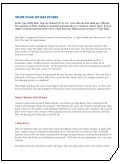
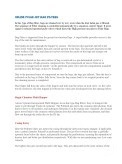
added video and brochure support

Changed region(s): [[0.0, 0.0, 0.9836, 1.0], [0.9344, 0.9146, 0.959, 0.9451]]

diff --git a/services.html b/services.html
@@ -18,8 +18,8 @@
     <nav class="fixed-top navbar navbar-expand-lg">
         <a class="navbar-brand" href="#"><img src="./resources/logo1.png" class="d-inline-block align-top brand-logo" alt="Brand Logo"></a>
         <button class="navbar-toggler" type="button" data-toggle="collapse" data-target="#navbarSupportedContent" aria-controls="navbarSupportedContent" aria-expanded="false" aria-label="Toggle navigation">
-      <span class="navbar-toggler-icon"></span>
-    </button>
+            <span class="navbar-toggler-icon"></span>
+        </button>
         <div class="collapse navbar-collapse" id="navbarSupportedContent">
             <ul class="pl-5 mr-auto navbar-nav">
                 <li class="nav-item active text-white">
@@ -55,28 +55,27 @@
 
 
     <div class="section">
-        <h2>We manufacture and maintain:</h2>
-        <div class="container-fluid mt-5 p-0">
+        <!-- <h2>We manufacture and maintain:</h2> -->
+        <div class="container-fluid mt-3 p-0">
             <div class="row">
-                <div class="col-md-3 d-sm-none d-md-block">
-                    <div id="product-list" class="list-group">
+                <div class="col-md-3">
+                    <div id="product-list" class="list-group d-none d-sm-block mb-5">
                         <a class="list-group-item list-group-item-action active">
-              Pulse Jet Bag Filter
-            </a>
+                            Pulse Jet Bag Filter
+                        </a>
                         <a class="list-group-item list-group-item-action">Centrifugal Blower / ID Fan
-            </a>
+                        </a>
                         <a class="list-group-item list-group-item-action">Dust Collector Cyclone</a>
                         <a class="list-group-item list-group-item-action">Pneumatic Conveying System</a>
                     </div>
                 </div>
-                <div class="col-sm-12 col-md-9">
+                <div class="col-xs-12 col-md-9">
                     <div class="rounded border p-4 product-description">
                         <div class="row">
                             <div class="col-sm-12">
                                 <h3 class="text-center">
                                     <span>Pulse Jet Bag Filter</span>
                                 </h3>
-
                                 <p class="clearfix mt-3">
                                     <div id="carouselExampleControls" class="carousel slide ml-2 mb-2 w-50 float-right" data-ride="carousel">
                                         <div class="carousel-inner">
@@ -99,7 +98,7 @@
                                             <span class="sr-only">Next</span>
                                         </a>
                                     </div>
-                                    <a class="brochure-button mr-4" href=""><img src="resources/brochure.jpg" alt="Download Brochure"></a>
+                                    <a class="brochure-button mr-4" href="http://bagfilters.in/files/Download/online-bag-filter.pdf"><img src="resources/brochure.jpg" alt="Download Brochure"></a>
                                     <a class="video-button" href=""><img src="resources/brochurevideo.jpg" alt="Watch video on Pulse Jet Bag Filter"></a>
                                     <br><br>Pulse Jet Bag filter is a dry dust filter device. It is suitable for trapping fine, dry, non-fibrous dust.
                                     <br> The filter bag is made of woven filter cloth or non-woven felt, and the dust-containing gas is filtered by the filtering effect of the fiber fabric.
@@ -258,7 +257,8 @@
                         <div>
                             <p>
                                 <img class="float-left" src="./resources/factory.jpg" alt="Proprietor" title="Proprietor" />
-                                <strong><i>Manufacturing Unit:</i></strong><br /> Khasra No.670,<br /> Hinasali Road, <br /> Besant Pur,
+                                <strong><i>Manufacturing Unit:</i></strong><br /> Khasra No.670,<br /> Hinasali Road,
+                                <br /> Besant Pur,
                                 <br /> Sainthli Murad Nagar,<br /> U.P. India
                             </p>
                             <br />
@@ -276,15 +276,15 @@
                         <br />
                         <div>Proprietor: Kishore Dulani</div>
                         <u>
-              <a href="tel:+919312893079"><span class="number">+91-9312893079</span></a>
-            </u>
+                            <a href="tel:+919312893079"><span class="number">+91-9312893079</span></a>
+                        </u>
                         <br />
                         <br />
                         <div class="rowfull">
                             Whatsapp:
                             <u><a href="https://api.whatsapp.com/send?phone=919312893079">+91 - 9312893079</a></u><br /> Email:
                             <u><a href="mailto:info@airconsystems.in">info@airconsystems.in</a></u><br /> Skype: <u><a
-                  href="skype:aircon">aircon</a></u>
+                                    href="skype:aircon">aircon</a></u>
                             <br />
                             <br />
                             <br /> Social Media:

diff --git a/resources/css.css b/resources/css.css
@@ -298,3 +298,29 @@ body {
 .video-button img {
     width: 75px;
 }
+
+.brochure-button img,
+.video-button img {
+    border: 2px solid #5f5f5f;
+    padding: 6px;
+    border-radius: 8px;
+}
+
+a.brochure-button {
+    position: relative;
+}
+
+a.brochure-button:after {
+    content: "";
+    display: block;
+    width: 20px;
+    height: 20px;
+    background: transparent;
+    background: linear-gradient(45deg, #5f5f5f 0%, #5f5f5f 52%, white 52%);
+    border-bottom-left-radius: 8px;
+    border-top-left-radius: 4px;
+    border-bottom-right-radius: 4px;
+    position: absolute;
+    top: -33.5px;
+    right: -1px;
+}
